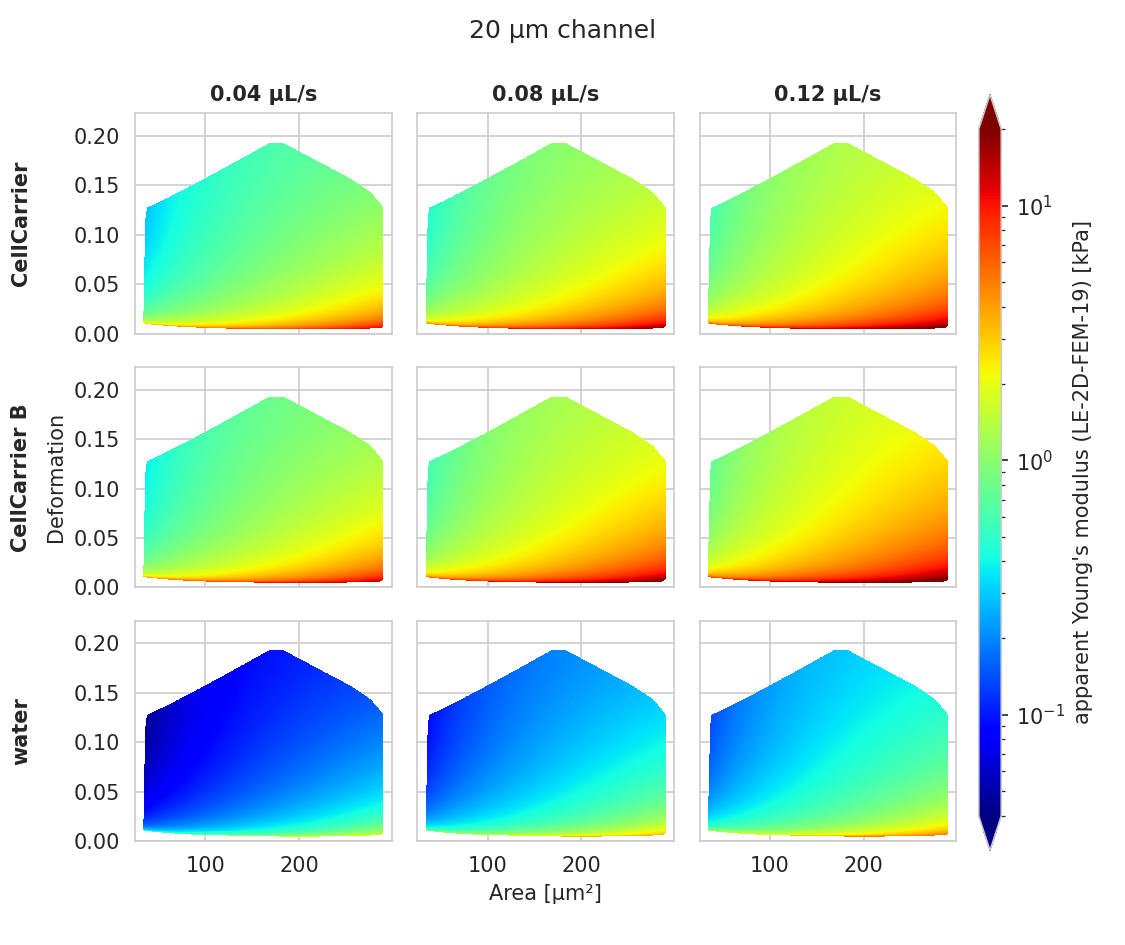
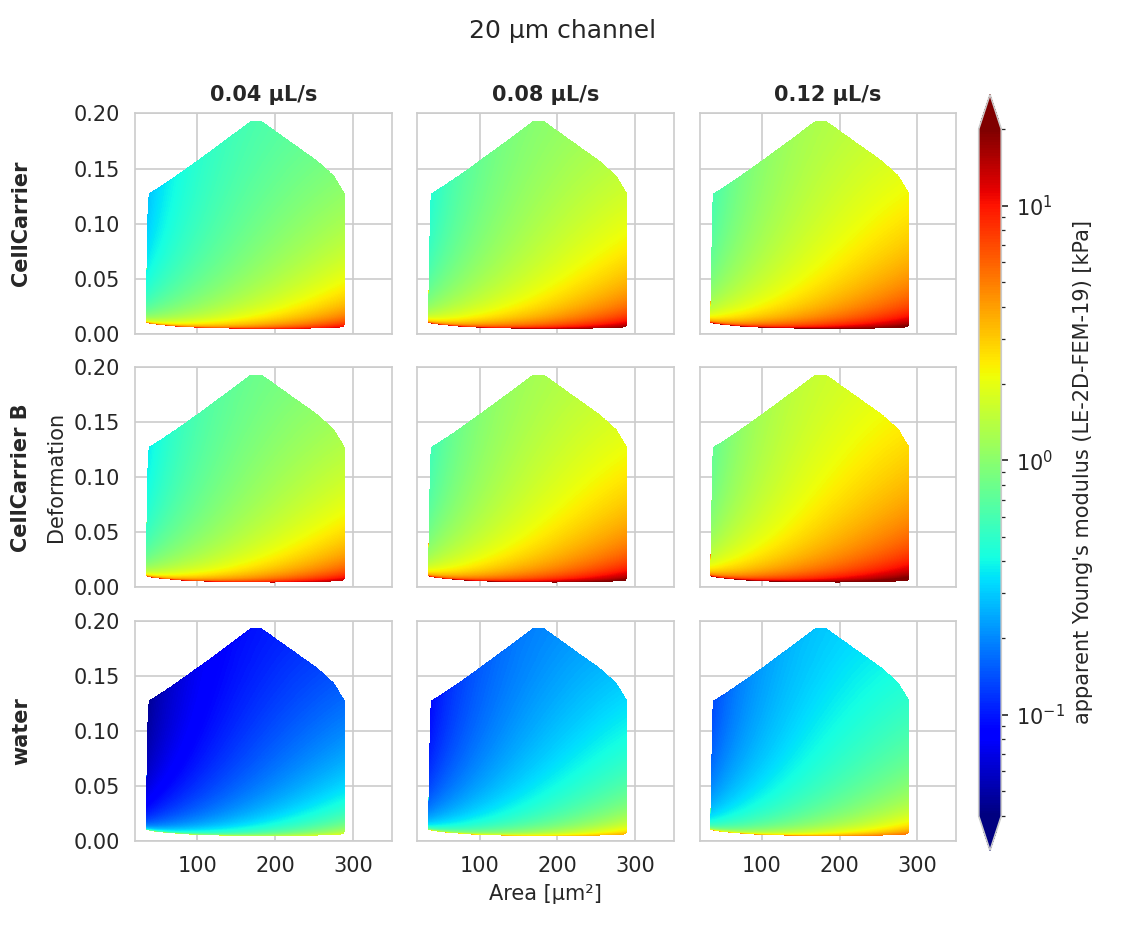
docs: elaborately introduce the new LUTs to the docs (close #188)

diff --git a/docs/figures/plot_emodulus_lut.py b/docs/figures/plot_emodulus_lut.py
@@ -1,4 +1,4 @@
-"""Overview plot for the Young's modulus look-up table
+"""Overview plots for the Young's modulus look-up table
 
 The Young's modulus is corrected for pixelation (pixel size 0.34 µm).
 The temperature is set to 23°C.
@@ -14,8 +14,6 @@ from matplotlib.ticker import MultipleLocator
 
 sns.set_style("whitegrid")
 
-
-lut_name = "LE-2D-FEM-19"
 media = ["CellCarrier", "CellCarrier B", "water"]
 matrix = {  # channel width: flow rates
     15: [0.016, 0.032, 0.048],
@@ -23,6 +21,14 @@ matrix = {  # channel width: flow rates
     30: [0.160, 0.240, 0.320],
     40: [0.320, 0.400, 0.600],
 }
+ylim = (0, 0.2)
+xlim = {  # channel width: xmax
+    15: (10, 200),
+    20: (20, 350),
+    30: (50, 800),
+    40: (120, 1400),
+}
+
 deform_max = 0.17
 grid_size = 1000
 emin = 4e-2
@@ -30,71 +36,77 @@ emax = 2e1
 norm = colors.LogNorm(vmin=emin, vmax=emax)
 cmap = "jet"
 
-for channel_width in matrix:
-    flow_rates = matrix[channel_width]
-    # setup figure
-    fig, axes = plt.subplots(nrows=3, ncols=3, sharex=True, sharey=True,
-                             gridspec_kw={"left": 0.12,
-                                          "right": .85,
-                                          "wspace": .1,
-                                          "hspace": .15,
-                                          },
-                             figsize=(7.5, 6.3))
-    fig.suptitle("{} µm channel".format(channel_width))
-    axes[2][1].set_xlabel("Area [µm²]")
-    axes[1][0].set_ylabel("Deformation")
-    # column label (flow rate)
-    for ii in range(3):
-        axes[0][ii].set_title("{} µL/s".format(flow_rates[ii]),
-                              fontsize=10, fontweight="bold")
-    # row label (medium)
-    for jj in range(3):
-        pos = axes[jj][0].get_position()
-        x = pos.x0 - .11
-        y = pos.y0 + pos.height/2
-        fig.text(x, y, media[jj], ha='left', va='center', rotation=90,
-                 fontsize=10, fontweight="bold")
 
-    # plot the LUTs channel-wise
-    lut_base, lut_meta = emodulus.load_lut(lut_name)
-    deform = np.linspace(lut_base[:, 1].min(), lut_base[:, 1].max(),
-                         grid_size, endpoint=True)
-    area_um = np.linspace(lut_base[:, 0].min(), lut_base[:, 0].max(),
-                          grid_size, endpoint=True)
-    for jj, medium in enumerate(media):  # rows
-        for ii, flow_rate in enumerate(matrix[channel_width]):  # columns
-            area_um_scaled = emodulus.scale_linear.scale_area_um(
-                area_um=area_um,
-                channel_width_in=lut_meta["channel_width"],
-                channel_width_out=channel_width)
-            aa, dd = np.meshgrid(area_um_scaled, deform)
-            emod = emodulus.get_emodulus(area_um=aa,
-                                         deform=dd,
-                                         medium=medium,
-                                         channel_width=channel_width,
-                                         flow_rate=flow_rate,
-                                         px_um=.34,
-                                         temperature=23.0,
-                                         lut_data=lut_name)
-            ax = axes[jj][ii]
-            ax.set_aspect("auto")
-            pc = ax.pcolormesh(aa, dd, emod, shading="nearest", cmap=cmap,
-                               norm=norm, zorder=11)
-            ax.grid(zorder=10)
-            ax.yaxis.set_major_locator(MultipleLocator(0.05))  # ticks every .5
+for lut_name in [
+    "LE-2D-FEM-19",
+    "HE-2D-FEM-22",
+    "HE-3D-FEM-22"
+]:
 
-    axes[2][2].set_ylim(0, axes[2][2].get_ylim()[1] + .03)
-    xmin, xmax = axes[2][2].get_xlim()
-    axes[2][2].set_xlim(xmin - (xmax-xmin)/30, xmax + (xmax-xmin)/30)
-    axes[2][2].grid(True, which="minor", zorder=10)
+    for channel_width in matrix:
+        flow_rates = matrix[channel_width]
+        # setup figure
+        fig, axes = plt.subplots(nrows=3, ncols=3, sharex=True, sharey=True,
+                                 gridspec_kw={"left": 0.12,
+                                              "right": .85,
+                                              "wspace": .1,
+                                              "hspace": .15,
+                                              },
+                                 figsize=(7.5, 6.3))
+        fig.suptitle("{} µm channel".format(channel_width))
+        axes[2][1].set_xlabel("Area [µm²]")
+        axes[1][0].set_ylabel("Deformation")
+        # column label (flow rate)
+        for ii in range(3):
+            axes[0][ii].set_title("{} µL/s".format(flow_rates[ii]),
+                                  fontsize=10, fontweight="bold")
+        # row label (medium)
+        for jj in range(3):
+            pos = axes[jj][0].get_position()
+            x = pos.x0 - .11
+            y = pos.y0 + pos.height/2
+            fig.text(x, y, media[jj], ha='left', va='center', rotation=90,
+                     fontsize=10, fontweight="bold")
 
-    # add colorbar
-    cax = plt.axes([0.87, 0.1, 0.02, 0.8])
+        # plot the LUTs channel-wise
+        lut_base, lut_meta = emodulus.load_lut(lut_name)
+        deform = np.linspace(lut_base[:, 1].min(), lut_base[:, 1].max(),
+                             grid_size, endpoint=True)
+        area_um = np.linspace(lut_base[:, 0].min(), lut_base[:, 0].max(),
+                              grid_size, endpoint=True)
+        for jj, medium in enumerate(media):  # rows
+            for ii, flow_rate in enumerate(matrix[channel_width]):  # columns
+                area_um_scaled = emodulus.scale_linear.scale_area_um(
+                    area_um=area_um,
+                    channel_width_in=lut_meta["channel_width"],
+                    channel_width_out=channel_width)
+                aa, dd = np.meshgrid(area_um_scaled, deform)
+                emod = emodulus.get_emodulus(area_um=aa,
+                                             deform=dd,
+                                             medium=medium,
+                                             channel_width=channel_width,
+                                             flow_rate=flow_rate,
+                                             px_um=.34,
+                                             temperature=23.0,
+                                             lut_data=lut_name)
+                ax = axes[jj][ii]
+                ax.set_aspect("auto")
+                pc = ax.pcolormesh(aa, dd, emod, shading="nearest", cmap=cmap,
+                                   norm=norm, zorder=11)
+                ax.grid(zorder=10)
+                ax.yaxis.set_major_locator(MultipleLocator(0.05))  # ticks every .5
 
-    mappable = cm.ScalarMappable(norm=norm, cmap=cmap)
-    plt.colorbar(pc, orientation="vertical", cax=cax, extend="both",
-                 label="apparent Young's modulus ({}) [kPa]".format(lut_name))
+        axes[2][2].set_ylim(*ylim)
+        axes[2][2].set_xlim(*xlim[channel_width])
+        axes[2][2].grid(True, which="minor", zorder=10)
 
-    plt.savefig("_emodulus_{}um_{}.png".format(channel_width, lut_name),
-                dpi=150)
-    plt.close()
+        # add colorbar
+        cax = plt.axes([0.87, 0.1, 0.02, 0.8])
+
+        mappable = cm.ScalarMappable(norm=norm, cmap=cmap)
+        plt.colorbar(pc, orientation="vertical", cax=cax, extend="both",
+                     label="apparent Young's modulus ({}) [kPa]".format(lut_name))
+
+        plt.savefig("_emodulus_{}um_{}.png".format(channel_width, lut_name),
+                    dpi=150)
+        plt.close()

diff --git a/examples/isoelastics.py b/examples/isoelastics.py
@@ -2,6 +2,16 @@
 
 This example illustrates how to plot dclab isoelastics by reproducing
 figure 3 (lower left) of :cite:`Mokbel2017`.
+
+.. warning::
+
+  This example does not work anymore since dclab 0.46.0, because
+  the isoelasticity lines of the analytical model have different
+  Young's moduli than the ones of the revised LE-2D-FEM-19 model.
+  For the sake of completeness, we keep this example here. If you
+  would like to extract lines at specific Young's moduli, please
+  take a look at the next example.
+
 """
 import matplotlib.pylab as plt
 import matplotlib.lines as mlines

diff --git a/docs/sec_av_emodulus.rst b/docs/sec_av_emodulus.rst
@@ -86,6 +86,33 @@ used to generate the LUT are available on figshare :cite:`FigshareWittwer2020`.
     effects according to :cite:`Herold2017`.
 
 
+HE-2D-FEM-22 and HE-3D-FEM-22
+-----------------------------
+These LUTs are based on a hyperelastic neo-Hookean material model for
+cells with a shear-thinning non-Newtonian fluid (e.g. 0.6% MC-PBS).
+The simulations were done in cylindrical (2D, with same scaling factor 1.094
+as for LE-2D-FEM-19) and square channel (3D) geometries as discussed
+in :cite:`Wittwer2022`. The original data used to generate these LUTs are
+available on figshare :cite:`FigshareWittwer2022`.
+
+.. figure:: figures/emodulus_20um_HE-2D-FEM-22.png
+    :target: images/emodulus_20um_HE-2D-FEM-22.png
+
+    Visualizations of the support and the values of the look-up table (LUT)
+    'HE-2D-FEM-22' :cite:`Wittwer2022` for a 20 µm wide channel at 23°C with an
+    effective pixel size of 0.34 µm. The data are corrected for pixelation
+    effects according to :cite:`Herold2017`.
+
+
+.. figure:: figures/emodulus_20um_HE-3D-FEM-22.png
+    :target: images/emodulus_20um_HE-3D-FEM-22.png
+
+    Visualizations of the support and the values of the look-up table (LUT)
+    'HE-3D-FEM-22' :cite:`Wittwer2022` for a 20 µm wide channel at 23°C with an
+    effective pixel size of 0.34 µm. The data are corrected for pixelation
+    effects according to :cite:`Herold2017`.
+
+
 external LUT
 ------------
 If you are generating LUTs yourself, you may register them in dclab using

diff --git a/docs/sec_examples.rst b/docs/sec_examples.rst
@@ -22,4 +22,6 @@ Examples
 
 .. fancy_include:: isoelastics.py
 
+.. fancy_include:: isoelastics_custom.py
+
 .. fancy_include:: plugin_usage.py
